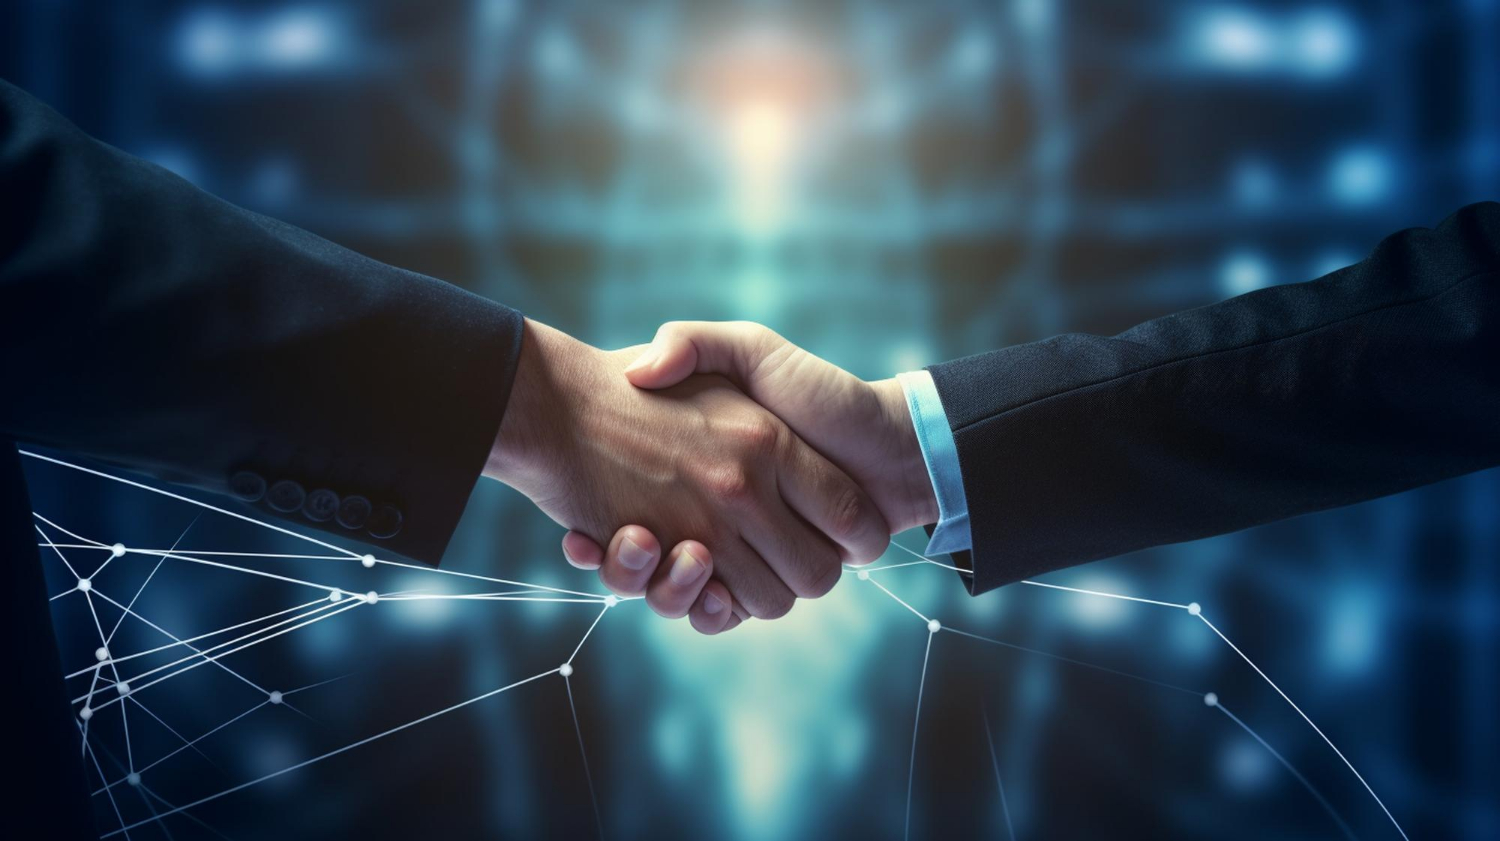
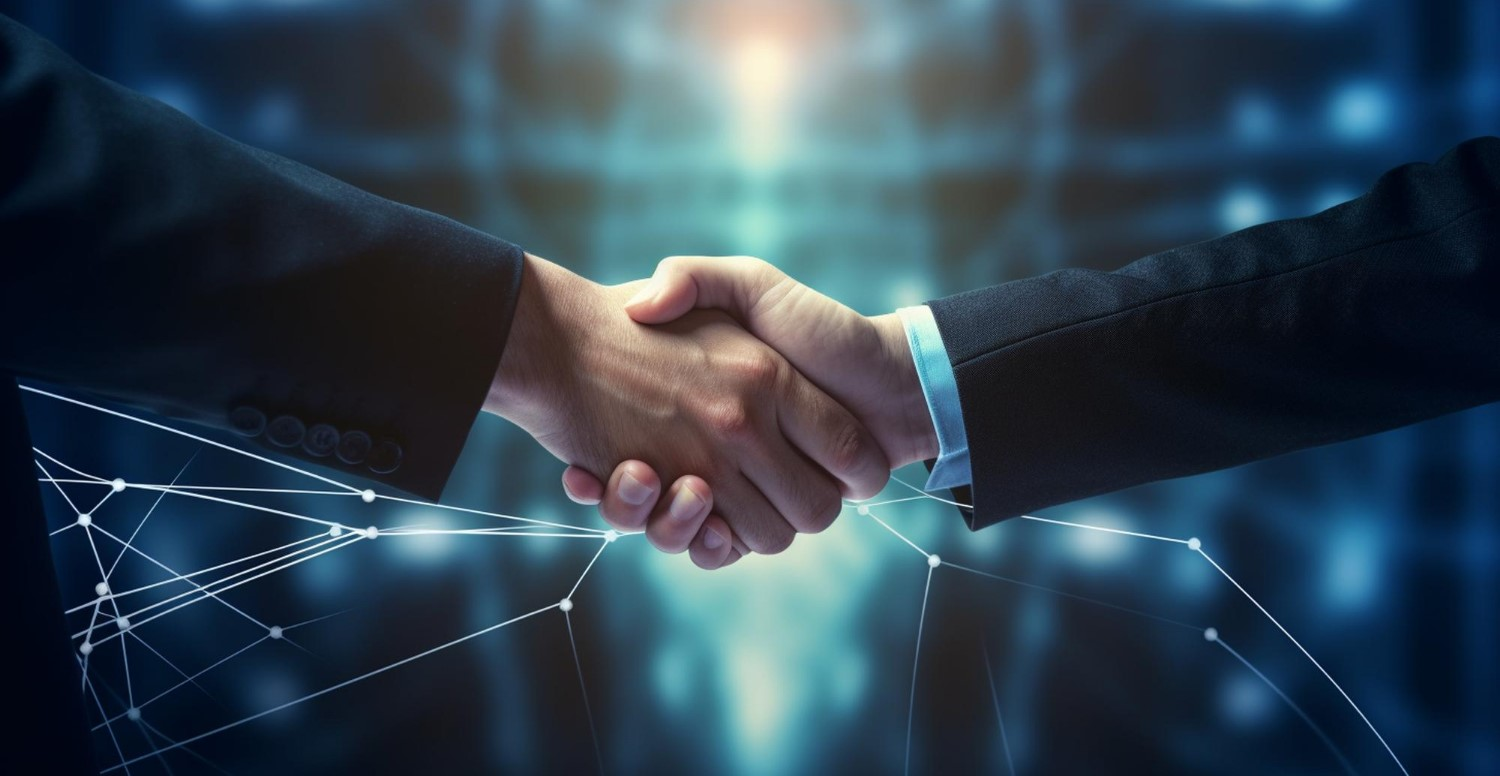
done search section

diff --git a/index.html b/index.html
@@ -73,7 +73,7 @@
          <section class="my-inspiration">
             <div class="container">
                 <h1>My Inspiration</h1>
-                <p>vdfsvfgxfvsdgfggtegcrfeyjgxrey gftegdyuhxwec ftegjhddeyfhdeyregdeyegdeycrhsgxdbdye</p>
+                <p>This video has inspired me a lot.</p>
                 
                 <div class="video-container">
                     <iframe width="560" height="315" src="https://www.youtube.com/embed/DGHn2uOAVCE?si=ykqWd31sHkZdR-Ab" title="YouTube video player" frameborder="0" allow="accelerometer; autoplay; clipboard-write; encrypted-media; gyroscope; picture-in-picture; web-share" referrerpolicy="strict-origin-when-cross-origin" allowfullscreen></iframe>
@@ -156,6 +156,18 @@
             </div>
          </section>
         
+         <!-- search section -->
+          <section class="search-section">
+            <div class="search-text">
+                <h2>I Need Support</h2>
+                <p>I am seeking feedback to help improve my skills and projects. Any suggestions or insights are greatly appreciated.</p>
+            </div>
+            
+          <form>
+            <input type="text" placeholder="Suggest me any feedback for me">
+            <button type="submit">Submit</button>
+          </form>
+          </section>
     </main>
 
     <footer>

diff --git a/style.css b/style.css
@@ -269,3 +269,55 @@ iframe {
 .sub-section img{
     width: 9%;
 }
+
+/* search section starts here*/
+.search-section {
+    width: 80%;
+    height: 450px;
+    margin: 0 auto;
+    margin-top: 60px;
+    border-radius: 16px;
+    background: linear-gradient(black, white), url('./assets/handshake.jpg') no-repeat center center/cover;
+    background-blend-mode: multiply;
+    color: white;
+    display: flex;
+    flex-direction: column;
+    justify-content: center;
+    align-items: center;
+    text-align: center;
+}
+
+.search-text {
+    width: 50%;
+    margin: 0 auto;
+}
+
+.search-section form {
+    margin-top: 20px;
+    gap: 10px;
+    display: flex;
+    justify-content: center;
+    align-items: center;
+}
+
+.search-section input[type="text"] {
+    padding: 10px;
+    width: 300px;
+    border: none;
+    border-radius: 8px ;
+}
+
+.search-section button {
+    padding: 10px 20px;
+    border: none;
+    border-radius: 8px;
+    background-color: white;
+    color: #0D1321;
+    font-weight: bold;
+    cursor: pointer;
+}
+
+.search-section button:hover {
+    background-color: #000000;
+    color: white;
+}
